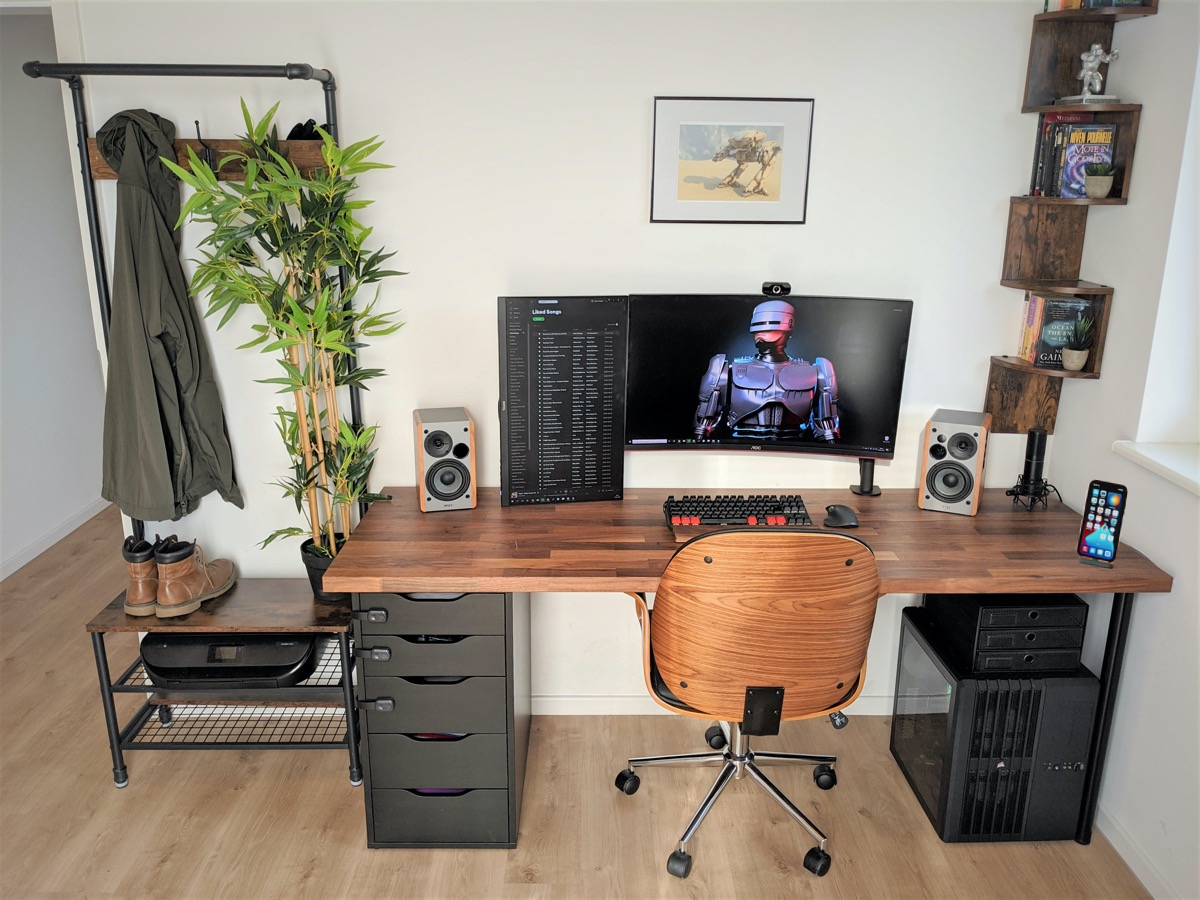
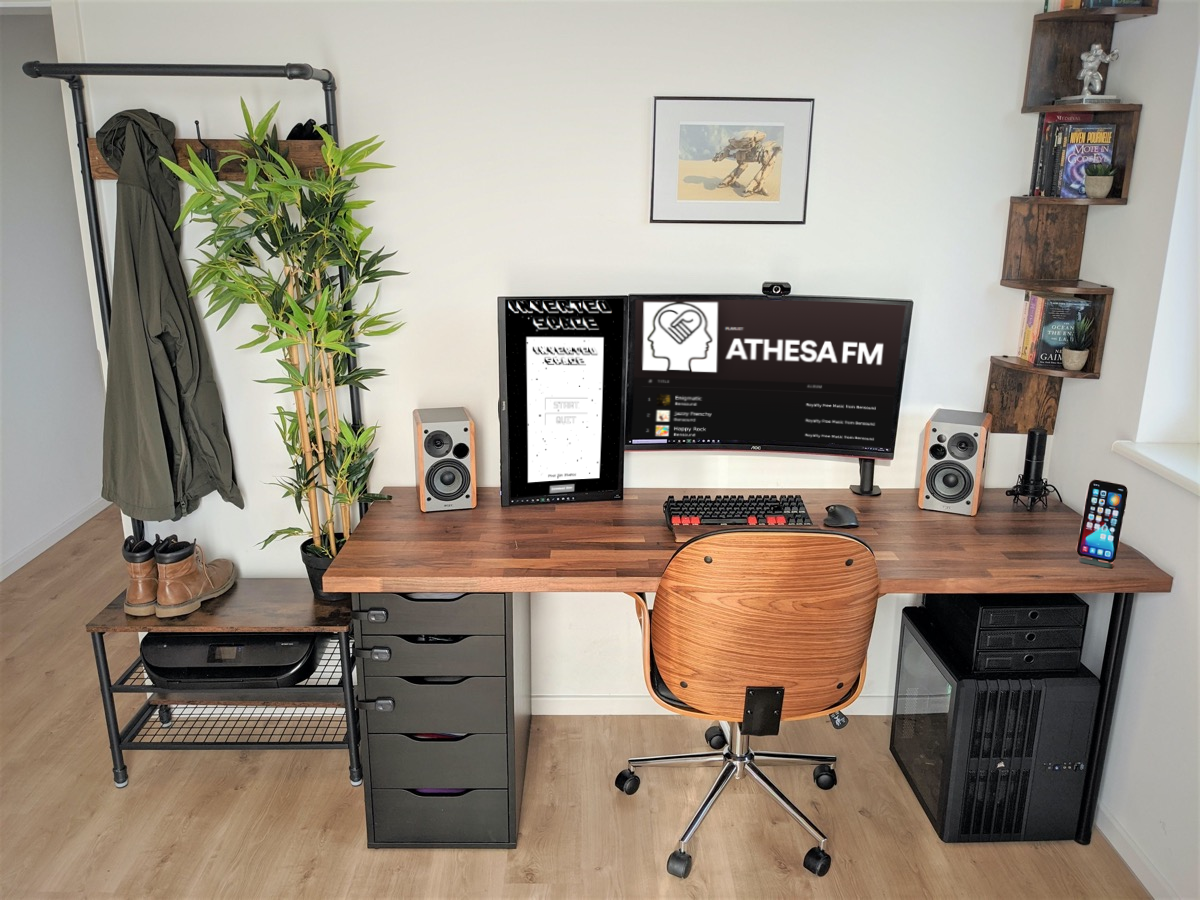
Finished song select feature
New background for office

Song selection finished

Css commented

Changed region(s): [[0.4008, 0.3111, 0.7708, 0.56]]

diff --git a/src/app/components/the-office-page/the-office-page.component.html b/src/app/components/the-office-page/the-office-page.component.html
@@ -7,7 +7,6 @@
         <button class = "interactableButton" id = "phone" ngbTooltip="Pickup the phone" (click)="openBackDropCustomClass(phoneModal)"></button>
         <button class = "interactableButton" id = "speaker1" ngbTooltip="Turn on/off music" (click)="toggleMusic()"></button>
         <button class = "interactableButton" id = "speaker2" ngbTooltip="Turn on/off music" (click)="toggleMusic()"></button>
-        <!-- The link/iframe needs to be css'ed so it just looks uniform  -->
         <a href="https://pixelzenstudios.itch.io/inverted-space" target="_blank"><button class = "interactableButton" id = "screen1" ngbTooltip="Play a game"></button></a>
         <button class = "interactableButton" id = "screen2" ngbTooltip="Choose music" (click)="openBackDropCustomClass(musicModal)"></button>
         <button class = "interactableButton" id = "book" ngbTooltip="Read a book" (click)="openBackDropCustomClass(bookModal)"></button>
@@ -64,8 +63,11 @@
             <span aria-hidden="true">&times;</span>
           </button>
         </div>
-        <div class="modal-body">
-          <img id = "infoBookImage" src="../../../assets/officeAssets/normalVision/screen2.png" alt="Music selection">
+        <div class="modal-body" id = "songSelect">
+          <img id = "songSelectBackground" src="../../../assets/officeAssets/normalVision/screen2.png" alt="Music selection">
+          <button class = "interactableButton" id = "enigmaticSong" ngbTooltip="Change the song to something generic" (click)="changeSong('enigmatic')"></button>
+          <button class = "interactableButton" id = "jazzyFrenchSong" ngbTooltip="Change the song to something jazzy" (click)="changeSong('jazzyFrench')"></button>
+          <button class = "interactableButton" id = "happyRockSong" ngbTooltip="Change the song to rock" (click)="changeSong('happyRock')"></button>
         </div>
       </ng-template>
 

diff --git a/src/app/components/the-office-page/the-office-page.component.css b/src/app/components/the-office-page/the-office-page.component.css
@@ -3,11 +3,17 @@ body{
     margin-right: 10% !important;
 }
 
+
+
+/* Following is for main office setup CSS */
+
+/* CSS for div containing all of the office */
 #officeSetup {
   position: relative;
   display: inline-block;
 }
 
+/* CSS for the main office background image */
 #background {
   position: relative;
   max-width: 100%;
@@ -38,6 +44,7 @@ body{
   max-width: 5%;
 }
 
+/* Placement and size of speaker interactable */
 #speaker1{
   right: 60.2%;
   top: 45%;
@@ -46,6 +53,7 @@ body{
   max-width: 5.5%;
 }
 
+/* Placement and size of speaker interactable */
 #speaker2{
   right: 17.5%;
   top: 45%;
@@ -54,6 +62,7 @@ body{
   max-width: 6%;
 }
 
+/* Placement and size of screen interactable */
 #screen1{
   right: 48%;
   top: 33%;
@@ -62,6 +71,7 @@ body{
   max-width: 10%;
 }
 
+/* Placement and size of screen interactable */
 #screen2{
   right: 26%;
   top: 33%;
@@ -70,6 +80,7 @@ body{
   max-width: 21%;
 }
 
+/* Placement and size of book interactable */
 #book{
   right: 9%;
   top: 33%;
@@ -78,6 +89,12 @@ body{
   max-width: 5.5%;
 }
 
+
+
+
+
+/* Using an interactable / opening its modal CSS follows */
+
 .modal-body{
   padding: 0% 0% 0% 0%;
 }
@@ -85,4 +102,49 @@ body{
 
 #infoBookImage{
   max-width: 100%;
+}
+
+
+
+
+
+
+/* Following is for changing song CSS */
+
+/* Song select on screen 2 */
+#songSelect {
+  position: relative;
+  display: inline-block;
+}
+
+/* Background for modal body when screen 2 selected */
+#songSelectBackground {
+  position: relative;
+  max-width: 100%;
+  width: 100%;
+  height: auto;
+}
+
+#enigmaticSong{
+  right: 1%;
+  top: 67.5%;
+  height: 9%;
+  width: 98%;
+  max-width: 98%;
+}
+
+#jazzyFrenchSong{
+  right: 1%;
+  top: 78.5%;
+  height: 9%;
+  width: 98%;
+  max-width: 98%;
+}
+
+#happyRockSong{
+  right: 1%;
+  top: 90.5%;
+  height: 9%;
+  width: 98%;
+  max-width: 98%;
 }

diff --git a/src/app/components/the-office-page/the-office-page.component.ts b/src/app/components/the-office-page/the-office-page.component.ts
@@ -1,3 +1,4 @@
+import { SourceMapGenerator } from '@angular/compiler/src/output/source_map';
 import { Component, OnInit, ViewEncapsulation  } from '@angular/core';
 import {NgbModal, NgbCarouselConfig} from '@ng-bootstrap/ng-bootstrap';
 
@@ -24,10 +25,10 @@ export class TheOfficePageComponent implements OnInit {
 
 
   ngOnInit(): void {
-    this.officeBackgroundMusic.src = "../../../assets/officeAssets/audio/enigmatic.mp3"
-    this.officeBackgroundMusic.loop = true;
-    this.officeBackgroundMusic.load();
-    this.officeBackgroundMusic.play();
+      this.officeBackgroundMusic.src = "../../../assets/officeAssets/audio/enigmatic.mp3"
+      this.officeBackgroundMusic.loop = true;
+      this.officeBackgroundMusic.load();
+      this.officeBackgroundMusic.play();
   }
 
 
@@ -47,6 +48,26 @@ export class TheOfficePageComponent implements OnInit {
       this.officeBackgroundMusic.play();
       this.musicPlaying = true;
     }
+  }
+
+  // When screen 2 is selected and the user changes the Song by pressing the buttons on the modal, this method is called
+  changeSong(song: string){
+    if(song=="enigmatic"){
+      this.officeBackgroundMusic.src = "../../../assets/officeAssets/audio/enigmatic.mp3"
+      this.officeBackgroundMusic.load();
+      this.officeBackgroundMusic.play();
+    }
+    if(song=="jazzyFrench"){
+      this.officeBackgroundMusic.src = "../../../assets/officeAssets/audio/jazzyfrenchy.mp3"
+      this.officeBackgroundMusic.load();
+      this.officeBackgroundMusic.play();
+    }
+    if(song=="happyRock"){
+      this.officeBackgroundMusic.src = "../../../assets/officeAssets/audio/happyrock.mp3"
+      this.officeBackgroundMusic.load();
+      this.officeBackgroundMusic.play();
+    }
+
   }
 
 
